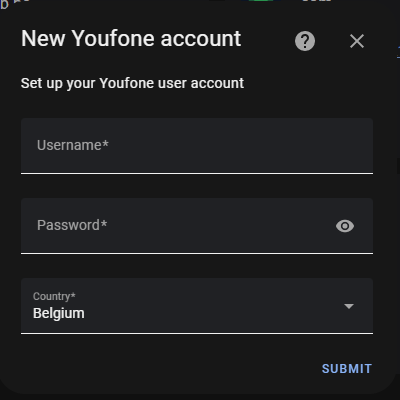
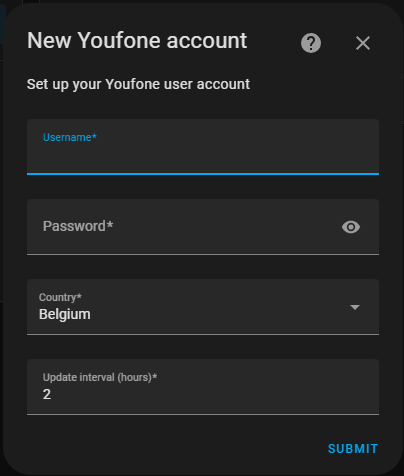
feat: improved update interval

diff --git a/custom_components/youfone/__init__.py b/custom_components/youfone/__init__.py
@@ -1,11 +1,19 @@
 """Youfone integration."""
+
 from __future__ import annotations
 
+from datetime import timedelta
 import logging
 from pathlib import Path
+import random
 
 from homeassistant.config_entries import ConfigEntry
-from homeassistant.const import CONF_COUNTRY, CONF_PASSWORD, CONF_USERNAME
+from homeassistant.const import (
+    CONF_COUNTRY,
+    CONF_PASSWORD,
+    CONF_SCAN_INTERVAL,
+    CONF_USERNAME,
+)
 from homeassistant.core import HomeAssistant
 from homeassistant.helpers import device_registry as dr
 from homeassistant.helpers.storage import STORAGE_DIR, Store
@@ -13,7 +21,7 @@ from homeassistant.helpers.update_coordinator import DataUpdateCoordinator
 from requests.exceptions import ConnectionError
 
 from .client import YoufoneClient
-from .const import COORDINATOR_UPDATE_INTERVAL, DOMAIN, PLATFORMS
+from .const import COORDINATOR_MIN_UPDATE_INTERVAL, DOMAIN, PLATFORMS
 from .exceptions import (
     BadCredentialsException,
     YoufoneException,
@@ -22,6 +30,14 @@ from .exceptions import (
 from .models import YoufoneItem
 
 _LOGGER = logging.getLogger(__name__)
+
+
+def get_coordinator_update_interval(minimum=COORDINATOR_MIN_UPDATE_INTERVAL):
+    """Get the coordinator update interval"""
+    minimum = max(
+        minimum, COORDINATOR_MIN_UPDATE_INTERVAL
+    )  # Ensure minimum is not lower than COORDINATOR_MIN_UPDATE_INTERVAL
+    return timedelta(minutes=(minimum * 60 + random.uniform(5, 30)))
 
 
 async def async_setup_entry(hass: HomeAssistant, entry: ConfigEntry) -> bool:
@@ -51,6 +67,7 @@ async def async_setup_entry(hass: HomeAssistant, entry: ConfigEntry) -> bool:
         dev_reg=dev_reg,
         client=client,
         store=store,
+        scan_interval=entry.data[CONF_SCAN_INTERVAL],
     )
 
     await coordinator.async_config_entry_first_refresh()
@@ -81,13 +98,14 @@ class YoufoneDataUpdateCoordinator(DataUpdateCoordinator):
         dev_reg: dr.DeviceRegistry,
         client: YoufoneClient,
         store: Store,
+        scan_interval: int,
     ) -> None:
         """Initialize coordinator."""
         super().__init__(
             hass,
             _LOGGER,
             name=DOMAIN,
-            update_interval=COORDINATOR_UPDATE_INTERVAL,
+            update_interval=get_coordinator_update_interval(scan_interval),
         )
         self._debug = _LOGGER.isEnabledFor(logging.DEBUG)
         self._config_entry_id = config_entry_id
@@ -99,7 +117,17 @@ class YoufoneDataUpdateCoordinator(DataUpdateCoordinator):
     async def async_config_entry_first_refresh(self) -> None:
         """Refresh data for the first time when a config entry is setup."""
         self.data = await self.store.async_load() or {}
-        await super().async_config_entry_first_refresh()
+        if len(self.data):
+            # Map data item as YoufoneItem if it is restored from the data store
+            new_data = {}
+            for key, value in self.data.items():
+                if not isinstance(value, YoufoneItem):
+                    new_data[key] = YoufoneItem(**value)
+                else:
+                    new_data[key] = value
+            self.data = new_data
+        else:
+            await super().async_config_entry_first_refresh()
 
     async def get_data(self) -> dict | None:
         """Get the data from the Youfone client."""
@@ -166,3 +194,19 @@ class YoufoneDataUpdateCoordinator(DataUpdateCoordinator):
             """
             return self.data
         return {}
+
+
+async def async_migrate_entry(hass: HomeAssistant, config_entry: ConfigEntry) -> bool:
+    """Migrate old entry."""
+    _LOGGER.info("Migrating from version %s", config_entry.version)
+
+    if config_entry.version == 1:
+        new = {**config_entry.data}
+        # TODO: modify Config Entry data
+        new[CONF_SCAN_INTERVAL] = COORDINATOR_MIN_UPDATE_INTERVAL
+        config_entry.version = 2
+        hass.config_entries.async_update_entry(config_entry, data=new)
+
+    _LOGGER.info("Migration to version %s successful", config_entry.version)
+
+    return True

diff --git a/custom_components/youfone/config_flow.py b/custom_components/youfone/config_flow.py
@@ -1,13 +1,22 @@
 """Config flow to configure the Youfone integration."""
+
 from abc import ABC, abstractmethod
 import logging
 from typing import Any
 
 from homeassistant.config_entries import ConfigEntry, ConfigFlow, OptionsFlow
-from homeassistant.const import CONF_COUNTRY, CONF_PASSWORD, CONF_USERNAME
+from homeassistant.const import (
+    CONF_COUNTRY,
+    CONF_PASSWORD,
+    CONF_SCAN_INTERVAL,
+    CONF_USERNAME,
+)
 from homeassistant.core import callback
 from homeassistant.data_entry_flow import FlowHandler, FlowResult
 from homeassistant.helpers.selector import (
+    NumberSelector,
+    NumberSelectorConfig,
+    NumberSelectorMode,
     SelectSelector,
     SelectSelectorConfig,
     SelectSelectorMode,
@@ -19,7 +28,13 @@ from homeassistant.helpers.typing import UNDEFINED
 import voluptuous as vol
 
 from .client import YoufoneClient
-from .const import COUNTRY_CHOICES, DEFAULT_COUNTRY, DOMAIN, NAME
+from .const import (
+    COORDINATOR_MIN_UPDATE_INTERVAL,
+    COUNTRY_CHOICES,
+    DEFAULT_COUNTRY,
+    DOMAIN,
+    NAME,
+)
 from .exceptions import BadCredentialsException, YoufoneServiceException
 from .models import YoufoneConfigEntryData
 
@@ -28,6 +43,7 @@ _LOGGER = logging.getLogger(__name__)
 DEFAULT_ENTRY_DATA = YoufoneConfigEntryData(
     username=None,
     password=None,
+    scan_interval=COORDINATOR_MIN_UPDATE_INTERVAL,
 )
 
 COUNTRY_SELECTOR = SelectSelector(
@@ -96,6 +112,16 @@ class YoufoneCommonFlow(ABC, FlowHandler):
                 )
             ),
             vol.Required(CONF_COUNTRY, default=DEFAULT_COUNTRY): COUNTRY_SELECTOR,
+            vol.Required(
+                CONF_SCAN_INTERVAL, default=COORDINATOR_MIN_UPDATE_INTERVAL
+            ): NumberSelector(
+                NumberSelectorConfig(
+                    min=COORDINATOR_MIN_UPDATE_INTERVAL,
+                    max=48,
+                    step=1,
+                    mode=NumberSelectorMode.BOX,
+                )
+            ),
         }
         return self.async_show_form(
             step_id="connection_init",
@@ -150,6 +176,37 @@ class YoufoneCommonFlow(ABC, FlowHandler):
                 errors["base"] = "unknown"
                 _LOGGER.debug(exception)
         return {"profile": profile, "errors": errors}
+
+    async def async_step_scan_interval(
+        self, user_input: dict | None = None
+    ) -> FlowResult:
+        """Configure update interval."""
+        errors: dict = {}
+
+        if user_input is not None:
+            self.new_entry_data |= user_input
+            return self.finish_flow()
+
+        fields = {
+            vol.Required(
+                CONF_SCAN_INTERVAL, default=COORDINATOR_MIN_UPDATE_INTERVAL
+            ): NumberSelector(
+                NumberSelectorConfig(
+                    min=COORDINATOR_MIN_UPDATE_INTERVAL,
+                    max=48,
+                    step=1,
+                    mode=NumberSelectorMode.BOX,
+                )
+            ),
+        }
+        return self.async_show_form(
+            step_id="scan_interval",
+            data_schema=self.add_suggested_values_to_schema(
+                vol.Schema(fields),
+                self.initial_data,
+            ),
+            errors=errors,
+        )
 
     async def async_step_username_password(
         self, user_input: dict | None = None
@@ -222,6 +279,7 @@ class YoufoneOptionsFlow(YoufoneCommonFlow, OptionsFlow):
             step_id="init",
             menu_options=[
                 "username_password",
+                "scan_interval",
                 "country",
             ],
         )
@@ -230,7 +288,7 @@ class YoufoneOptionsFlow(YoufoneCommonFlow, OptionsFlow):
 class YoufoneConfigFlow(YoufoneCommonFlow, ConfigFlow, domain=DOMAIN):
     """Handle a config flow for Youfone."""
 
-    VERSION = 1
+    VERSION = 2
 
     def __init__(self) -> None:
         """Initialize Youfone Config Flow."""

diff --git a/custom_components/youfone/const.py b/custom_components/youfone/const.py
@@ -1,8 +1,6 @@
 """Constants used by Youfone."""
-from datetime import timedelta
 import json
 from pathlib import Path
-import random
 from typing import Final
 
 from homeassistant.const import Platform
@@ -26,7 +24,7 @@ DATETIME_FORMAT = "%Y-%m-%dT%H:%M:%S%z"
 DEFAULT_COUNTRY = "be"
 COUNTRY_CHOICES = ["be", "nl"]
 
-COORDINATOR_UPDATE_INTERVAL = timedelta(minutes=110 + random.uniform(10, 20))
+COORDINATOR_MIN_UPDATE_INTERVAL = 2  # hours
 WEBSITE = "https://my.youfone.be/"
 
 manifestfile = Path(__file__).parent / "manifest.json"

diff --git a/custom_components/youfone/client.py b/custom_components/youfone/client.py
@@ -6,7 +6,6 @@ import copy
 from datetime import datetime
 import json
 import logging
-import random
 import time
 
 import httpx
@@ -75,8 +74,8 @@ class YoufoneClient:
 
         client = httpx.Client(http2=True)
 
-        # sleep random number of seconds, trying to avoid IP blacklisting
-        time.sleep(random.uniform(1, 10))
+        # sleep 5 seconds, trying to avoid IP blacklisting
+        time.sleep(5)
 
         if data is None:
             _LOGGER.debug(f"{caller} Calling GET {url}")

diff --git a/custom_components/youfone/models.py b/custom_components/youfone/models.py
@@ -10,6 +10,7 @@ class YoufoneConfigEntryData(TypedDict):
 
     username: str | None
     password: str | None
+    scan_interval: int | None
 
 
 @dataclass

diff --git a/README.md b/README.md
@@ -7,6 +7,12 @@
 
 A Home Assistant integration allowing to monitor your Youfone usage
 
+```
+In order to avoid IP blacklisting / DDOS identification, the update interval is set to a minimum of 2 hours (you can increase it in the configuration).
+When Home Assistant restarts, it will fetch the data from the local storage and it will update the sensors after the configured interval.
+When adding a hub of the integration, it might take 1 minute to complete the addition, due to a 5 seconds interval set between each API call to Youfone.
+```
+
 ### Features
 
 - 📱 Mobile data sensors
